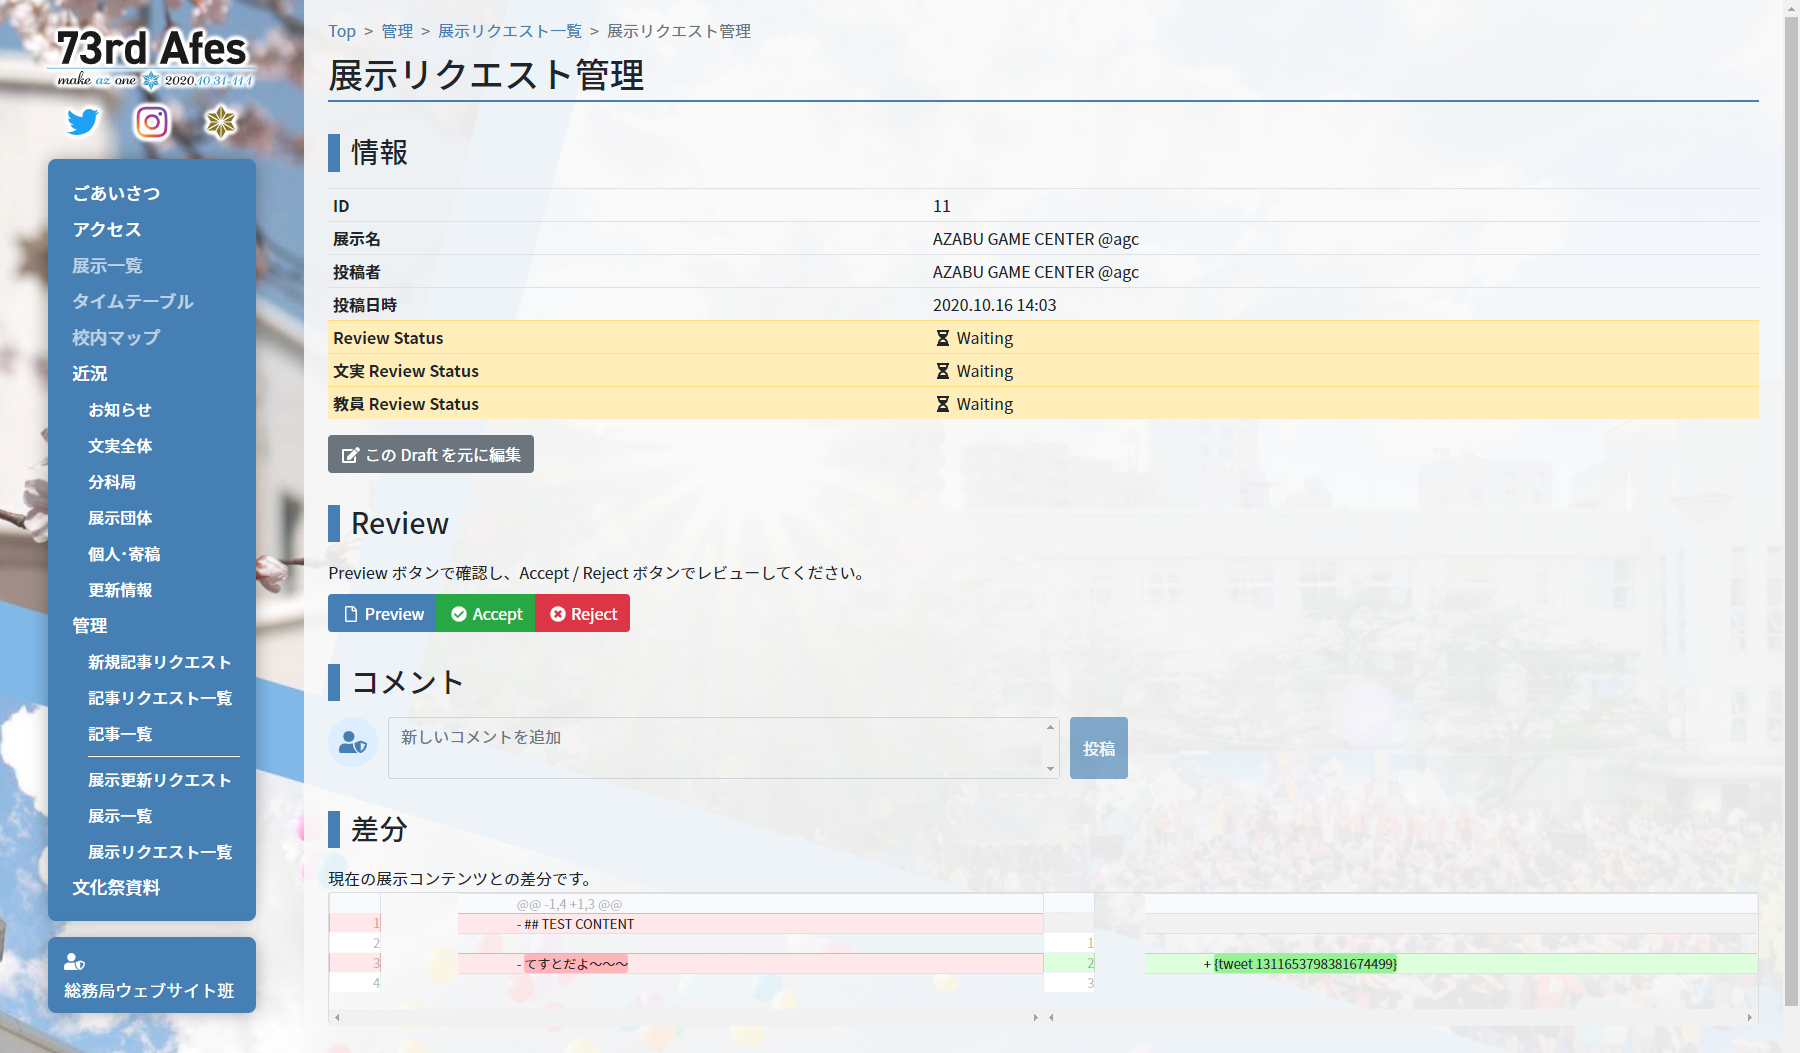
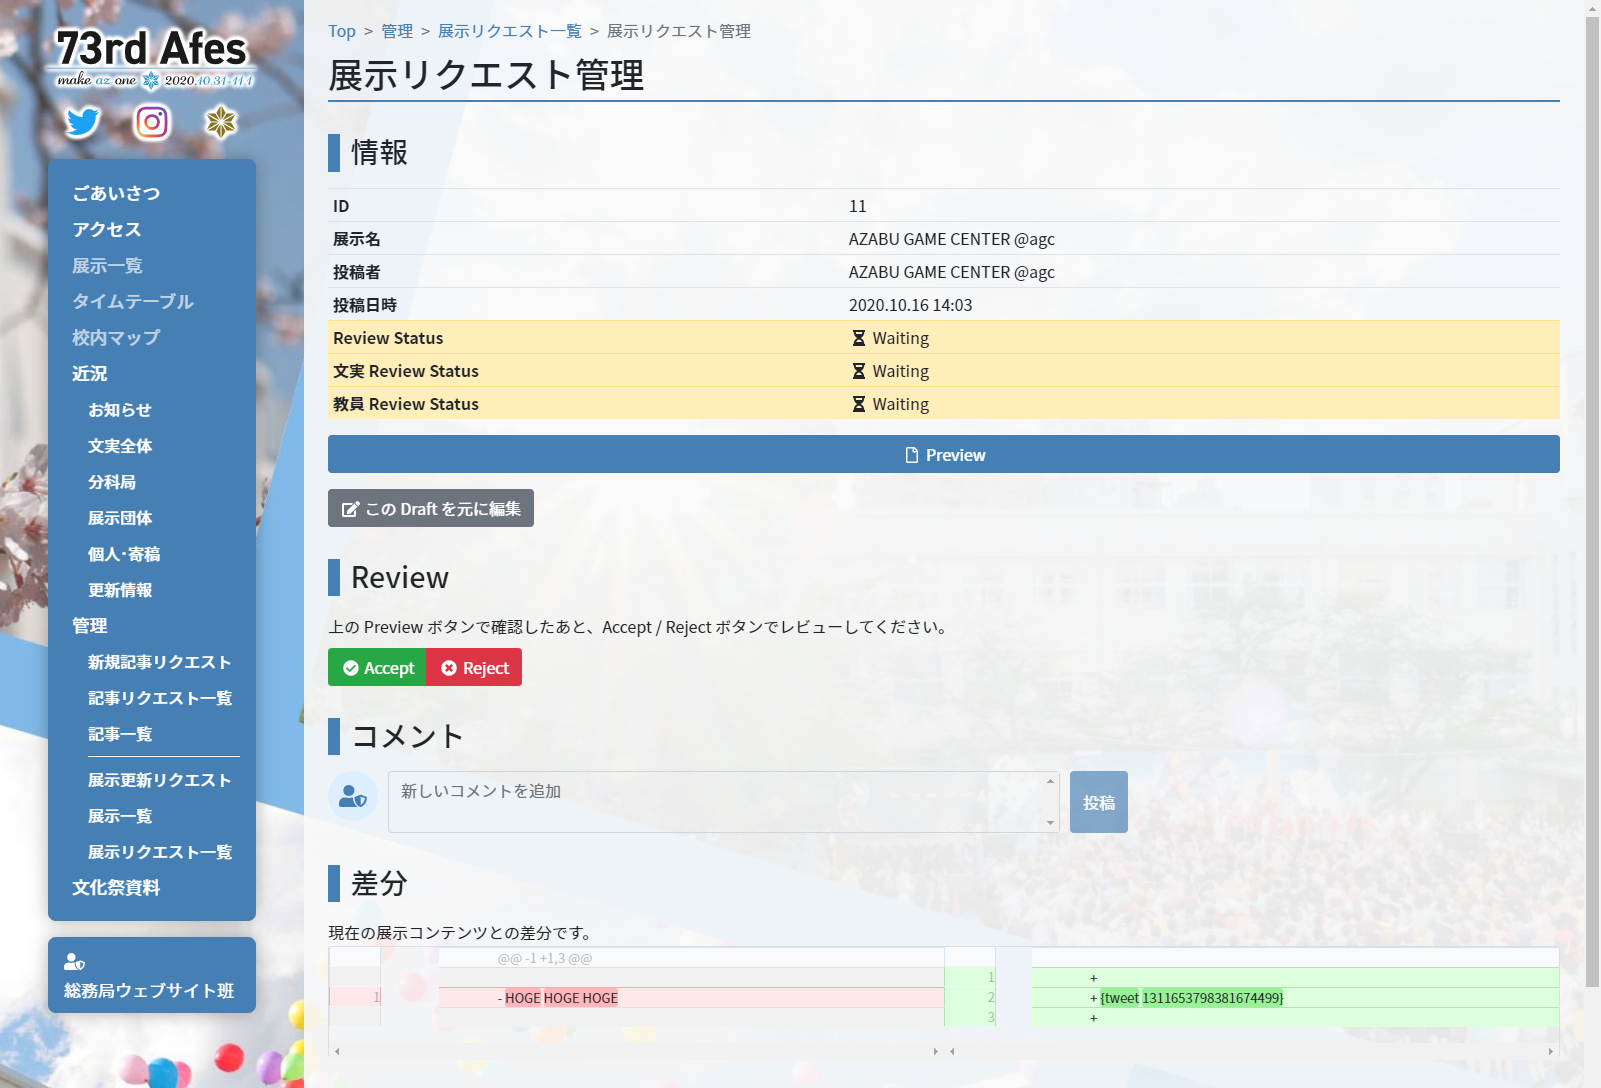
feat: follow draft manage update

diff --git a/admin/2-review.md b/admin/2-review.md
@@ -48,7 +48,7 @@ title: 2. レビューする
 
 ![](images/draft-manage.png)
 
-一番上には draft の情報があり、次にプレビューボタンとレビューボタンがあります。
+一番上に draft の情報とプレビューボタンがあり、次にレビューボタンがあります。
 
 「Preview」で実際にその draft のプレビューが開きます。内容に問題がないかを確認してください。
 
